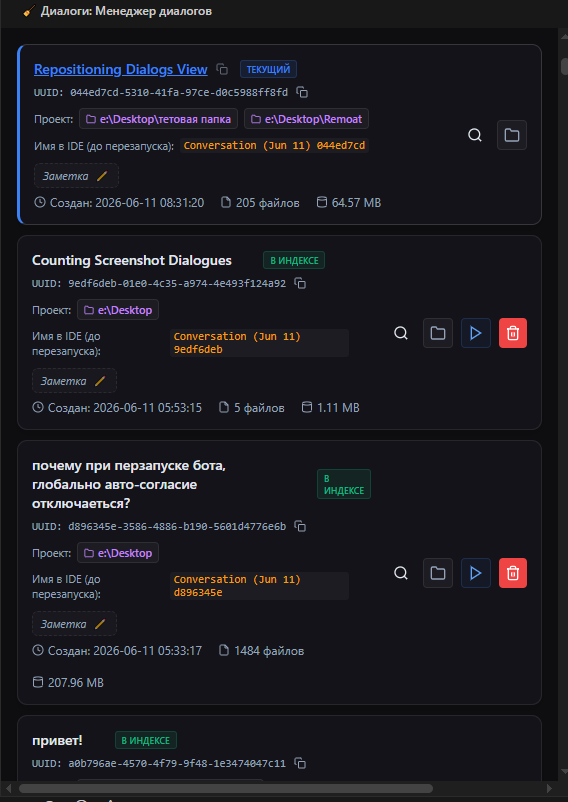
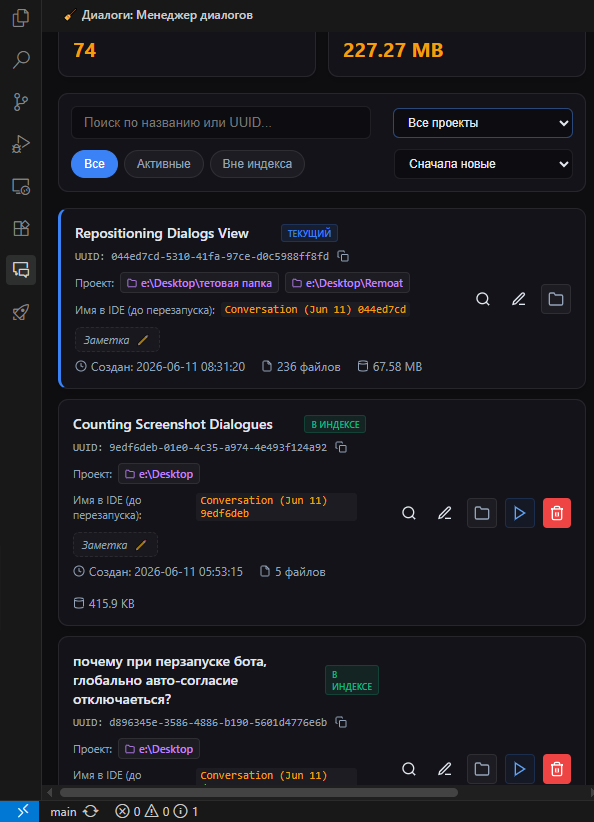
doc - reference localized screenshots in README.md

diff --git a/README.md b/README.md
@@ -52,7 +52,7 @@
 ![Подробный вид](resources/screenshot_detailed.png)
 
 #### Компактный вид (Compact View)
-![Компактный вид](resources/screenshot_compact.png)
+![Компактный вид](resources/screenshot_compact_ru.png)
 
 ### Системные требования
 - Установленный интерпретатор Python 3 (`python` или `python3` в PATH) для работы фоновой службы.
@@ -107,7 +107,7 @@ This ensures that:
 ![Detailed View](resources/screenshot_detailed.png)
 
 #### Compact View
-![Compact View](resources/screenshot_compact.png)
+![Compact View](resources/screenshot_compact_en.png)
 
 ### Prerequisites
 - Python 3 interpreter (`python` or `python3` in PATH) is required to run the backend service.
